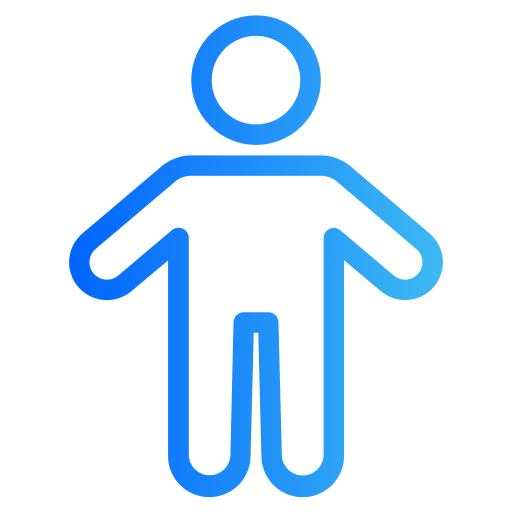
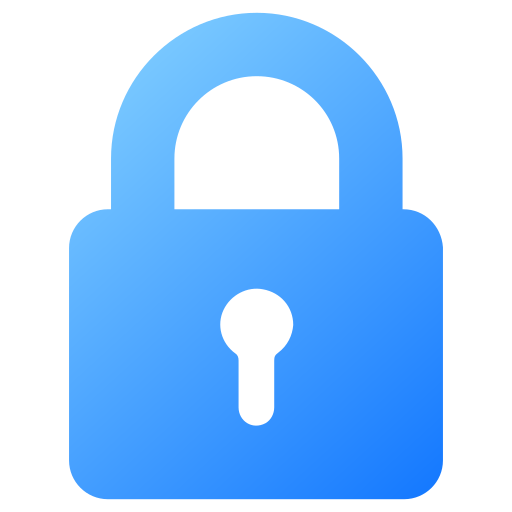
index

diff --git a/login.html b/login.html
@@ -1,0 +1,51 @@
+<!DOCTYPE html>
+<html lang="en">
+<head>
+    <meta charset="UTF-8">
+    <meta name="viewport" content="width=device-width, initial-scale=1.0">
+    <title>Document</title>
+    <script src="https://cdn.tailwindcss.com"></script>
+</head>
+<body class="bg-blue-100">
+    <section class="min-h-screen flex items-center justify-center">
+        <div class="bg-white p-8 rounded-2xl shadow-2xl w-[500px] h-auto my-10 max-w-md space-y-5">
+            <div class="flex justify-center mb-4">
+                <div class="bg-indigo-100 rounded-xl p-3 inline-block">
+                    <img src="image.png" alt="profile" class="w-9 h-9 object-cover">
+
+                </div>
+            </div>
+            <!-- <title> -->
+            <div class="text-center mb-4">
+                <h1 class="text-2xl font-bold text-black">Welcome Back</h1>
+                <p class="text-gray-600 text-sm mt-2">Enter your credentials to access your account</p>
+            </div>
+            <!-- <form> -->
+           <div>
+                <label for="email" class="text-sm font-semibold text-gray-600">Email Address</label>
+                <input type="email" name="" id="email" placeholder="[email redacted]" class="w-full mt-1 px-3 py-2 border border-gray-300 rounded-lg">
+           </div>
+           <div>
+                <label for="password" class="text-sm font-semibold text-gray-600">Password</label>
+                <input type="password" name="password" id="password" class="w-full mt-1 px-3 py-2 border border-gray-300 rounded-lg">
+           </div>
+           <div class="flex justify-between">
+            <div>
+            <input type="checkbox" name="Remember me" id="remember">
+            <label for="remember" class="text-sm text-gray-600">Remember me</label>
+           </div>
+           <div>
+            <a href="#" class="text-blue-600">Forgot password?</a>
+           </div>
+           </div>
+           <div>
+            <input type="button" value="Login ➜" class="w-full bg-blue-500 text-white py-2 rounded-lg hover:bg-blue-600 transition duration-300" id="btn">
+           </div>
+           <div>
+            <p class="text-sm text-gray-600 mt-4 text-center">Don't have an account yet? <a href="#" class="text-blue-500 hover:underline">Sign up for free</a></p>
+           </div>
+        </div>
+        
+    </section>
+</body>
+</html>

diff --git a/register.html b/register.html
@@ -12,7 +12,7 @@
         <div class="bg-white p-8 rounded-2xl shadow-2xl w-[450px] h-auto my-10 max-w-md">
             <div class="flex justify-center mb-4">
                 <div class="bg-indigo-100 rounded-xl p-3 inline-block">
-                    <img src="image.png" alt="profile" class="w-9 h-9 object-cover">
+                    <img src="image1.png" alt="profile" class="w-9 h-9 object-cover">
 
                 </div>
             </div>
@@ -54,7 +54,7 @@
                 <input type="button" value="Create My Account >>" class="w-full bg-blue-500 text-white py-2 rounded-lg hover:bg-blue-600 transition duration-300" id="btn">
                </div>
                <div>
-                <p class="text-sm text-gray-600 mt-4 text-center">Already have an account? <a href="#" class="text-blue-500 hover:underline">Sign in here</a></p>
+                <p class="text-sm text-gray-600 mt-4 text-center">Already have an account? <a href="login.html" class="text-blue-500 hover:underline">Sign in here</a></p>
                </div>
             
         </div>